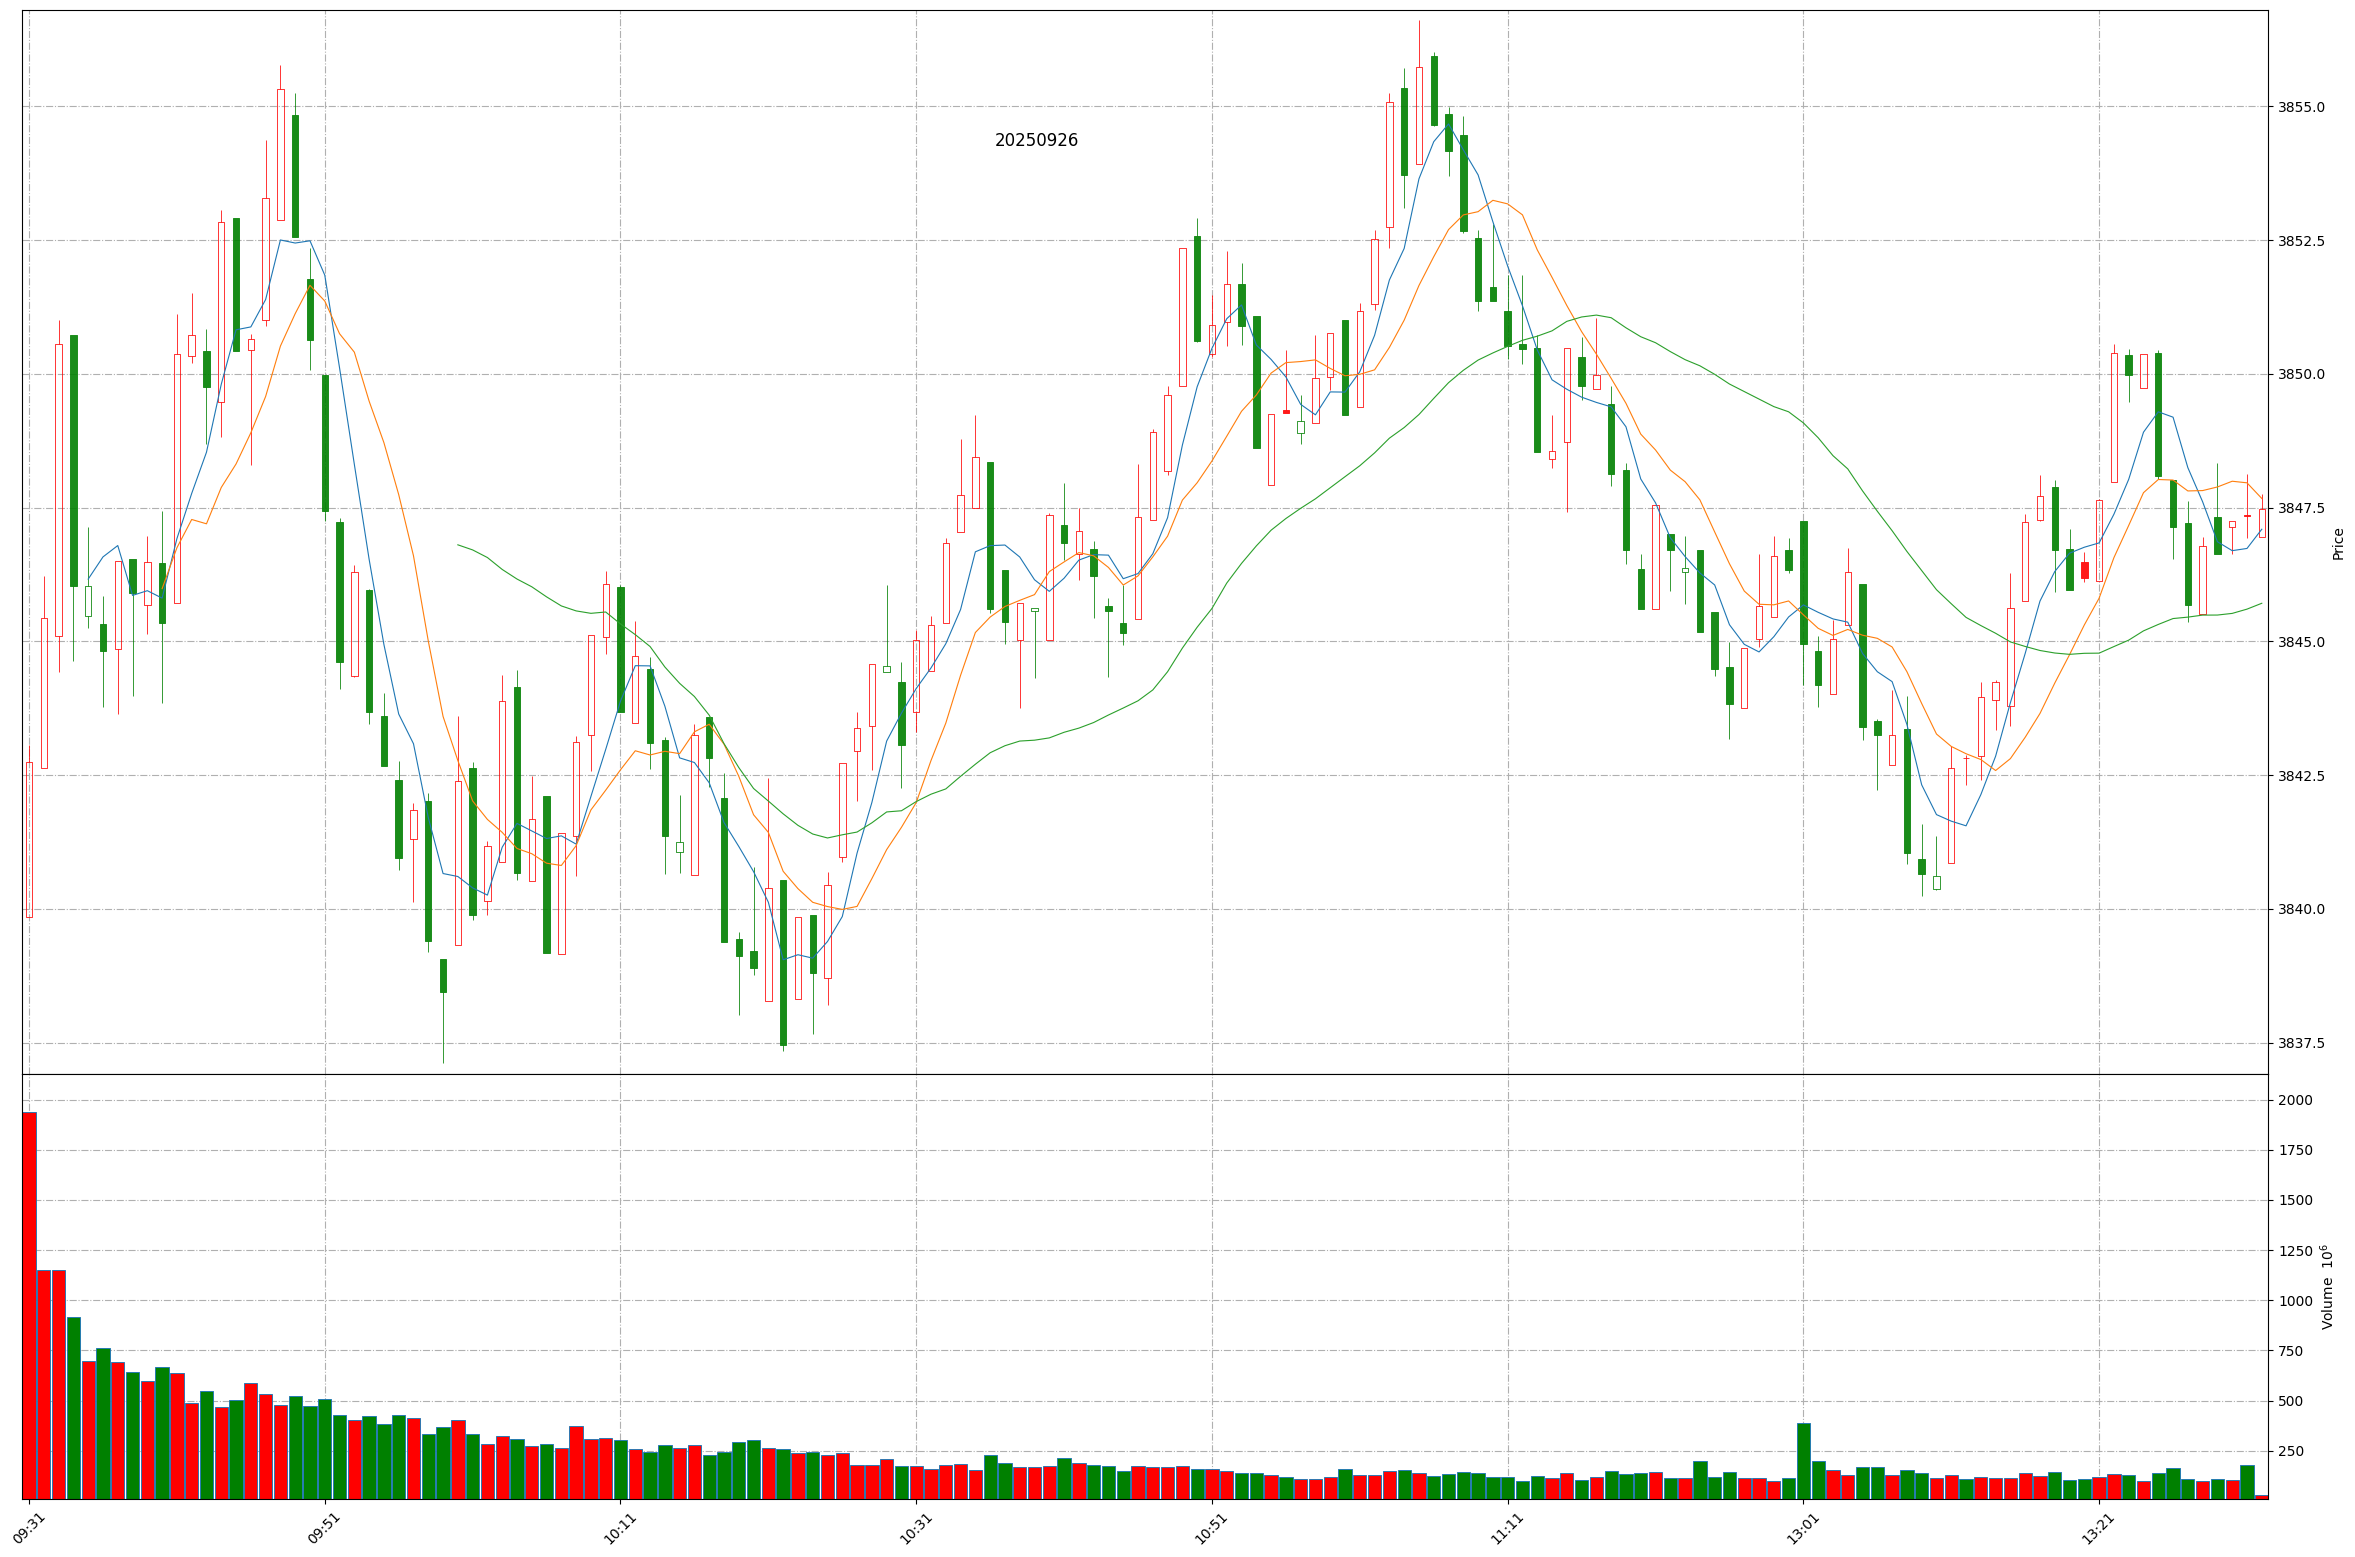
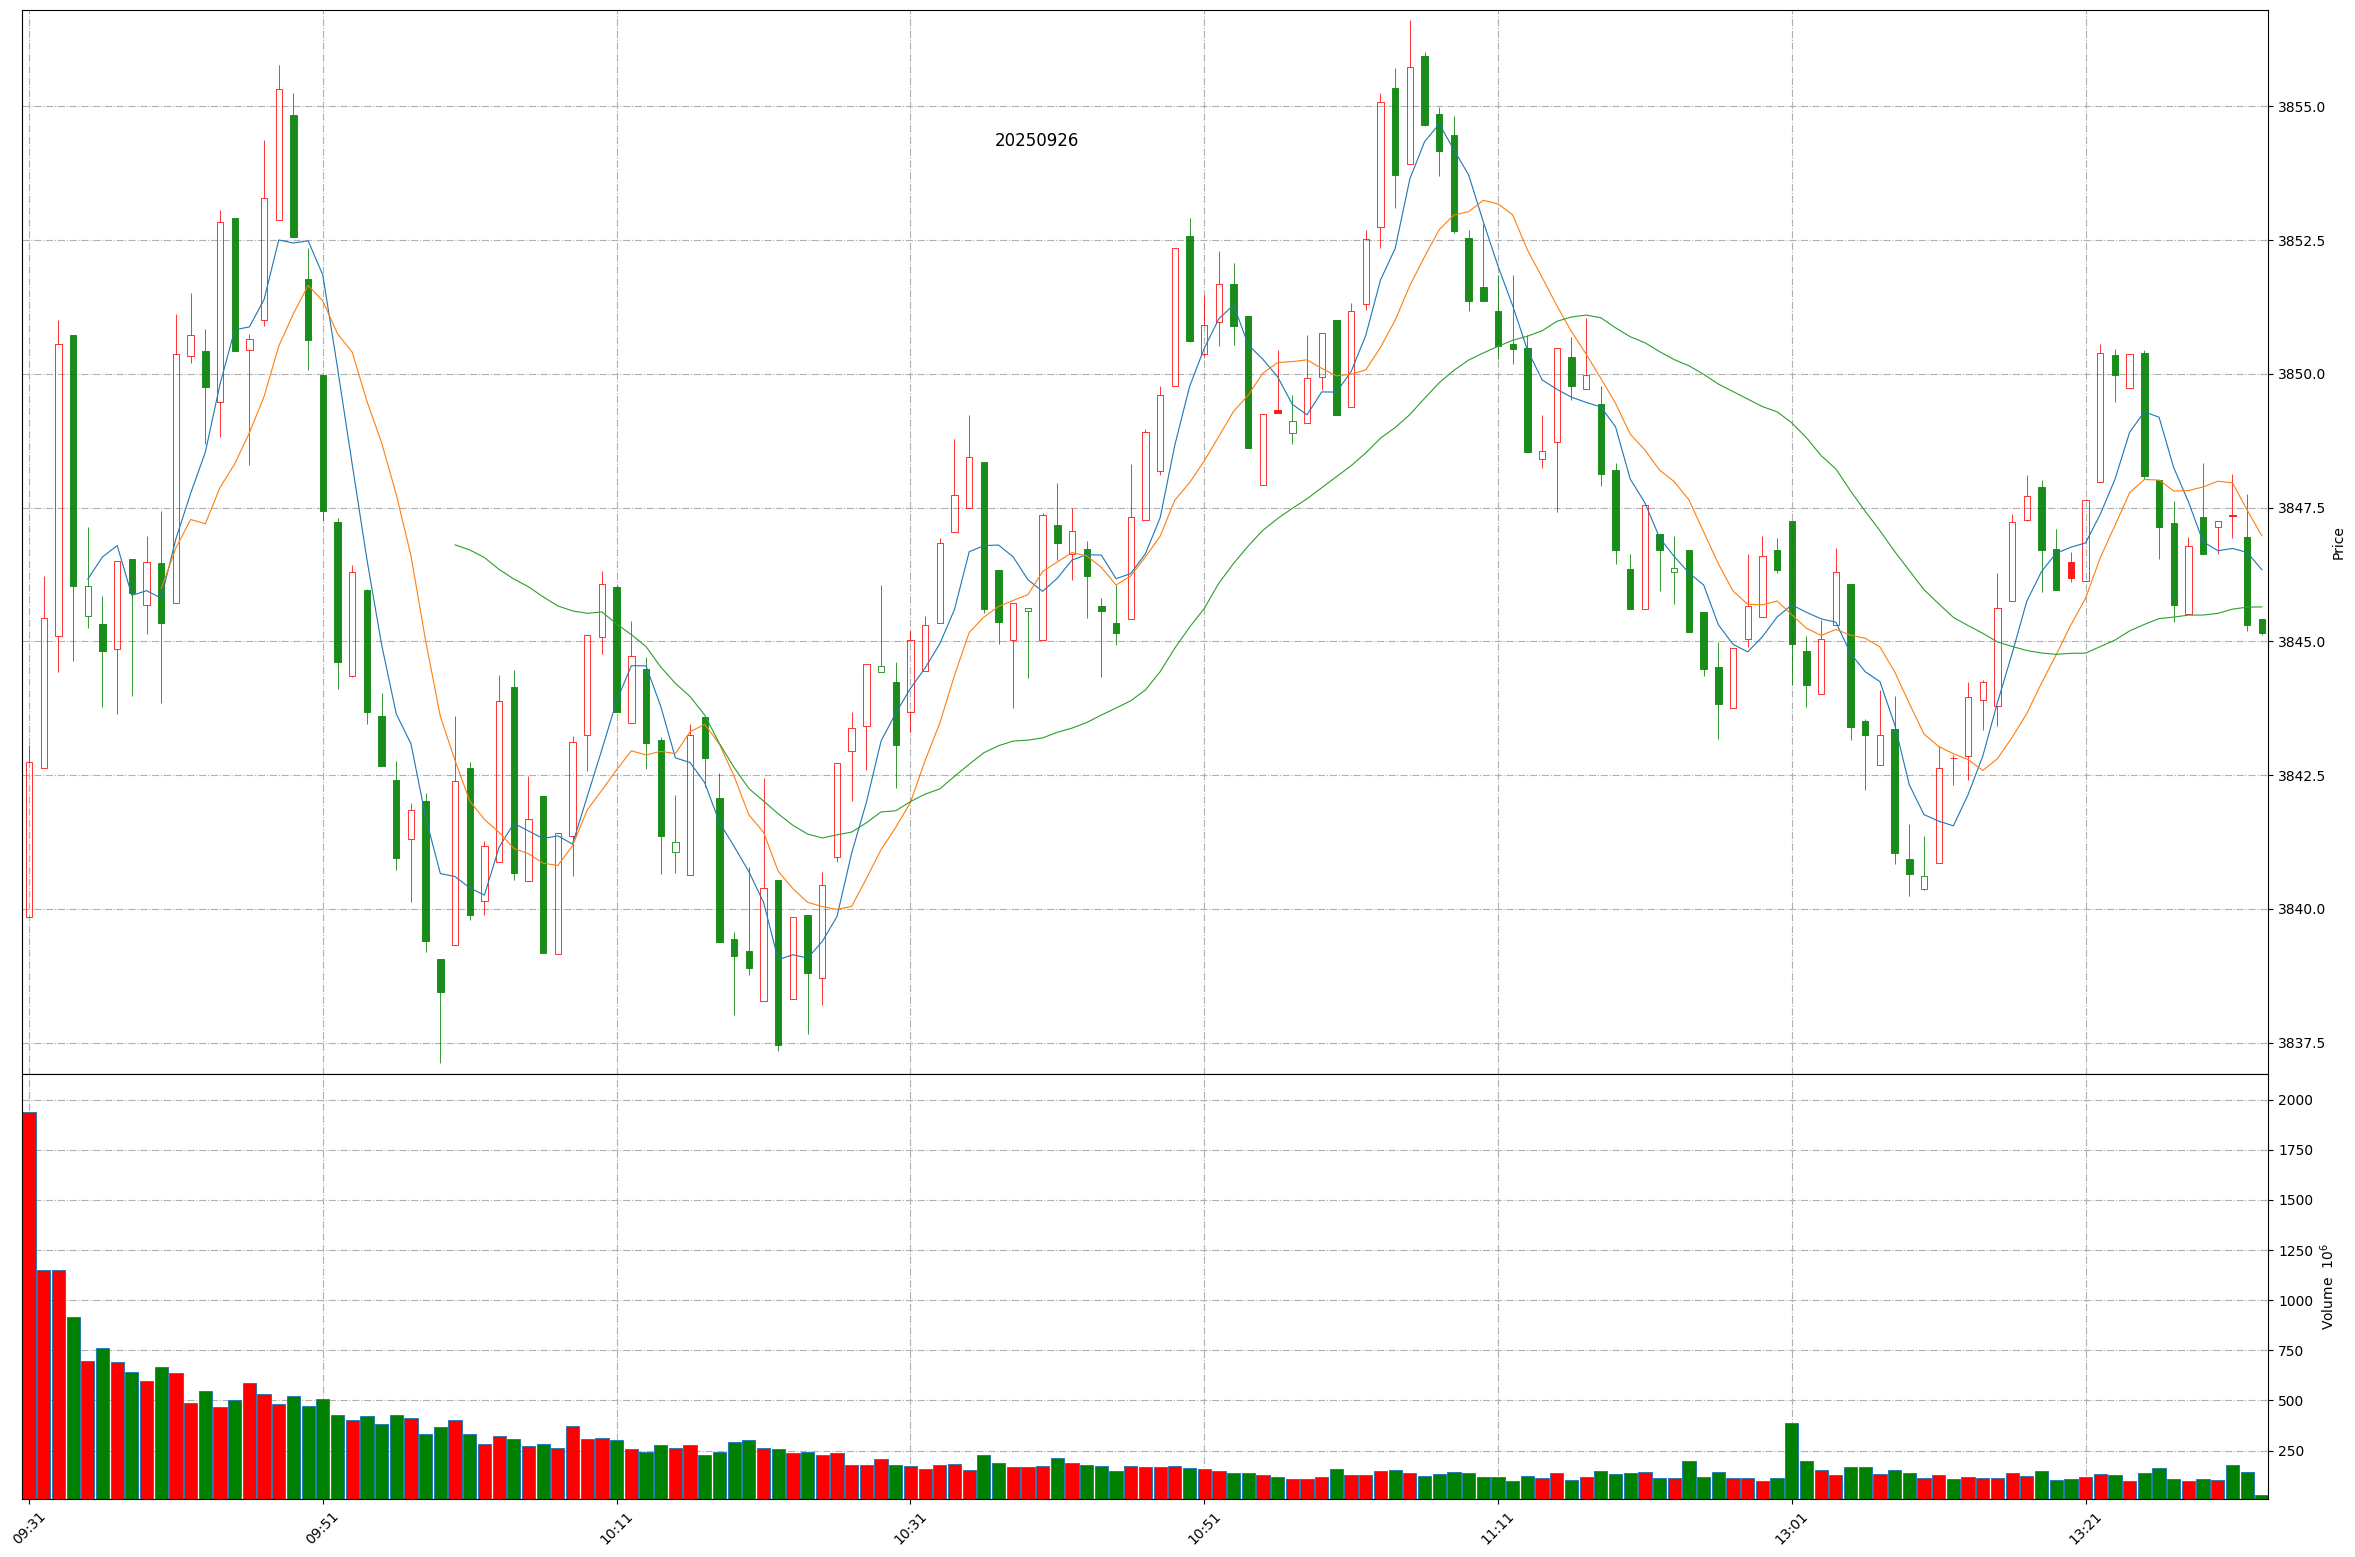
Github action update at 2025-09-26 13:32:31.

diff --git a/README.md b/README.md
@@ -1,11 +1,11 @@
 
 # Daily-A-share-market-quotes 每日 A 股指数（5min 更新）- 20250926
 
-### 上证指数 20250926 13:31
+### 上证指数 20250926 13:32
 ![](./fig/2025/9/20250926-sh000001.png)
 
-### 深证成指 20250926 13:31
+### 深证成指 20250926 13:32
 ![](./fig/2025/9/20250926-sz399001.png)
 
-### 北证50 20250926 13:31
+### 北证50 20250926 13:32
 ![](./fig/2025/9/20250926-bj899050.png)
